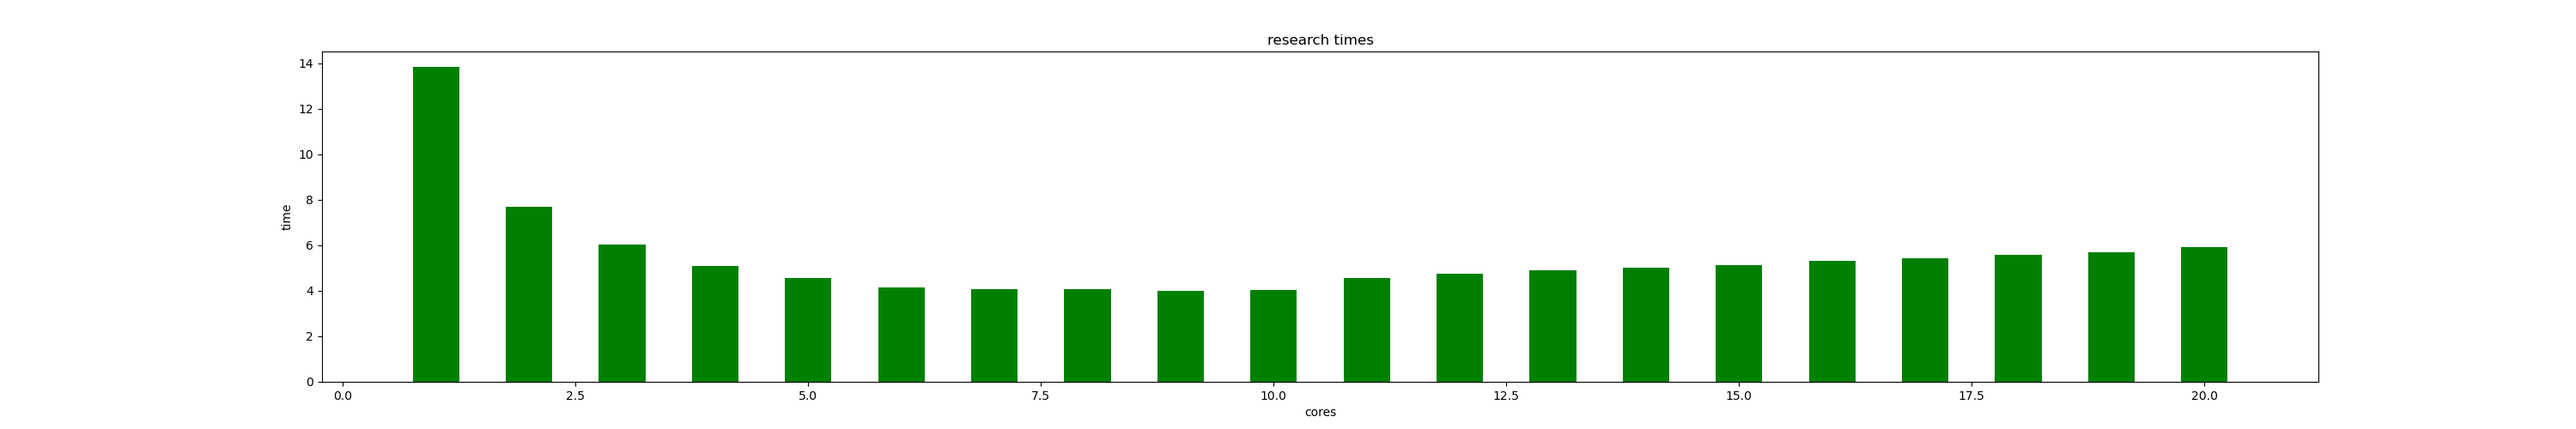
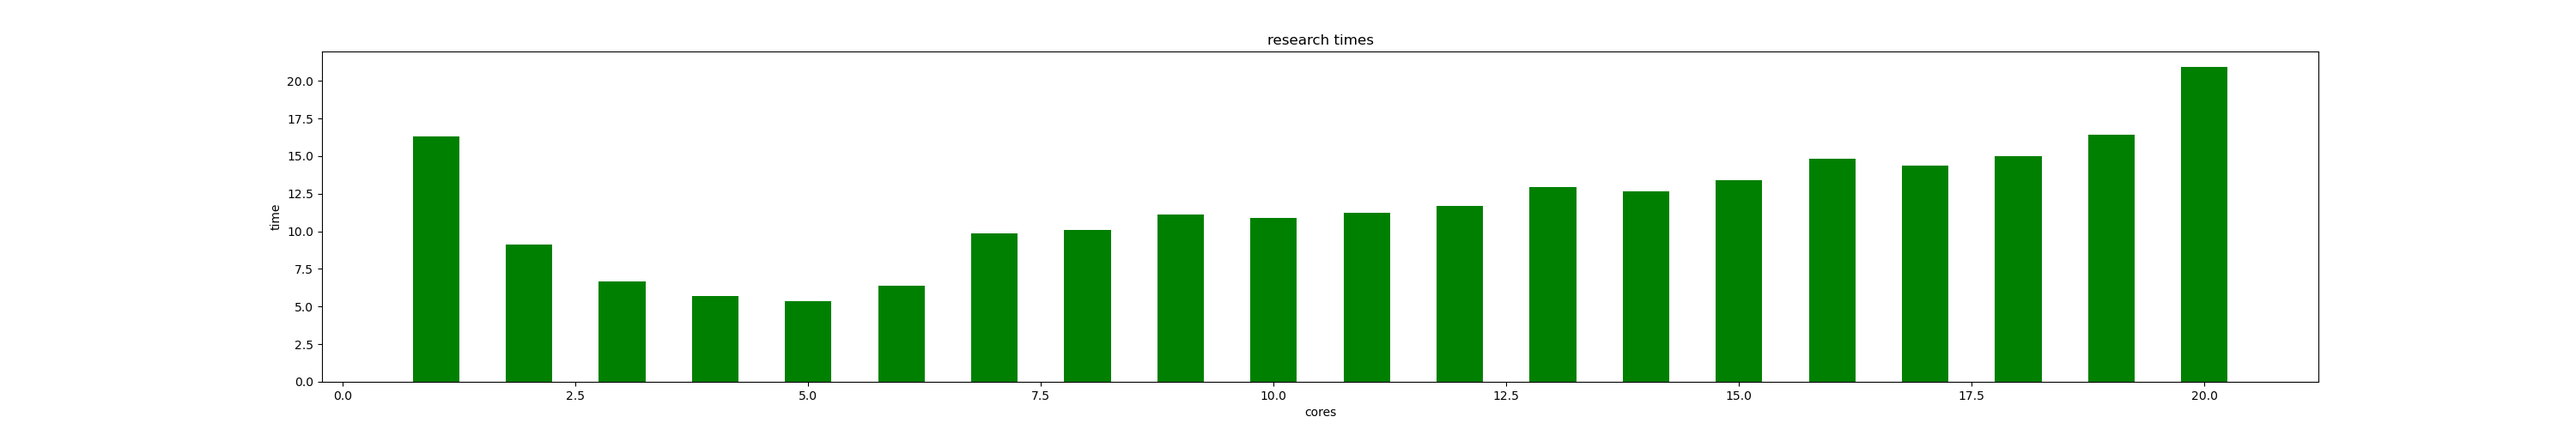
данные для поиска карты перенесны в json

diff --git a/functions.py b/functions.py
@@ -1,20 +1,29 @@
 import hashlib
 import logging
+import json
 from matplotlib import pyplot as plt
 import multiprocessing as mp
 import numpy as np
 import time
-from work_with_files import *
 
-# data = {
[1 lines of base64/hex data omitted]
-#     'last_num': '0254'
-# }
 
-# BIN = ['510126', '519778', '521178', '522828', '523701',
-#        '530331', '530827', '548673', '548674', '552175',
-#        '555928', '555933', '555949', '555957', '555921'
-#        ]
+def get_settings(settings_file: str) -> dict:
+    """функция получения словаря для дальнейшего взаимодействия с файлами
+
+    Args:
+        settings_file (str): путь к файлу
+
+    Returns:
+        dict: словарь с путями файлов
+    """
+    settings = None
+    try:
+        with open(settings_file) as json_file:
+            settings = json.load(json_file)
+        logging.info('Settings wes successfully loaded')
+    except IOError:
+        logging.warning(f'Error reading file {settings_file}')
+    return settings
 
 
 def check_hash(x: int, BIN: tuple, hash: str, last_num: str) -> tuple:
@@ -38,21 +47,18 @@ def check_hash(x: int, BIN: tuple, hash: str, last_num: str) -> tuple:
     return False
 
 
-def find_card_num(files: dict) -> str:
+def find_card_num(card_settings: dict) -> str:
     """функция поиска номера карты
     Args:
-        files (dict): набор путей фалов
+        card_settings (dict): набор путей фалов
 
     Returns:
         str: возвращет полный номер карты
     """
-    BIN = get_tuple(files["bins_file"])
-    hash  = get_text(files["hash_file"])
-    last_num = get_text(files["last_numbers_file"])
     
     arguments = []
     for i in range(0, 1000000):
-        arguments.append((i, BIN, hash, last_num))
+        arguments.append((i, card_settings["bins"], card_settings["hash"], card_settings["last_numbers"]))
         
     with mp.Pool(processes=5) as p:
         for result in p.starmap(check_hash, arguments):
@@ -63,23 +69,20 @@ def find_card_num(files: dict) -> str:
                 return (str(f'{result[0]}{result[1]}{result[2]}'))
 
 
-def time_research(c: int, files: dict) -> float:
+def time_research(c: int, card_settings: dict) -> float:
     """функция посчета поиска времени, необходимого, чтобы найти номер карты при заданном количестве запускаемых процессов
 
     Args:
         c (int): количество процессов
-        files (dict): набор путей фалов
+        card_settings (dict): набор путей фалов
 
     Returns:
         float: время поиска номера карты
     """
-    BIN = get_tuple(files["bins_file"])
-    hash  = get_text(files["hash_file"])
-    last_num = get_text(files["last_numbers_file"])
     
     arguments = []
     for i in range(0, 1000000):
-        arguments.append((i, BIN, hash, last_num))
+        arguments.append((i, card_settings["bins"], card_settings["hash"], card_settings["last_numbers"]))
     
     start = time.time()
     with mp.Pool(processes=c) as p:

diff --git a/window.py b/window.py
@@ -11,12 +11,11 @@ from PyQt5.QtWidgets import (
 from PyQt5.QtGui import (QIcon, QFont)
 from PyQt5.QtCore import QBasicTimer
 from PyQt5 import QtCore
-from work_with_files import *
 import os
 
 flag = 0
 
-way_settings = os.path.join('files', 'settings.json')
+way_settings = os.path.join('settings.json')
 
 class Window(QMainWindow):
     def __init__(self) -> None:
@@ -28,12 +27,11 @@ class Window(QMainWindow):
     def initUI(self) -> None:
         """функция работы окна
         """
-        self.files = get_settings(way_settings)
-        self.last_num = get_text(self.files["last_numbers_file"])
+        self.card_settings = f.get_settings(way_settings)
         
         self.info_message = QLabel(self)
         self.info_card_num = QLabel(
-            f'Информация о карте: ************{self.last_num}', self)
+            f'Информация о карте: ************{self.card_settings["last_numbers"]}', self)
         self.image_bar = QLabel(self)
         self.btn_create_bar = QPushButton('Построить график', self)
         self.btn_card_num = QPushButton('Найти номер карты', self)
@@ -116,13 +114,13 @@ class Window(QMainWindow):
         """функция поиска номера карты и вывода его на экран
         """
         self.print_info_message('Идет поиск')
-        self.info_card_num.setText(f'Информация о карте: {f.find_card_num(self.files)}')
+        self.info_card_num.setText(f'Информация о карте: {f.find_card_num(self.card_settings)}')
         self.info_message.hide()
 
     def alg_luna(self) -> None:
         """функция проверка номера карты на валидность с помощью алгоритма Луна
         """
-        card_num = f.find_card_num(self.files)
+        card_num = f.find_card_num(self.card_settings)
         self.info_card_num.setText(f'Информация о карте: {card_num}')
         if f.algorithm_luna(card_num):
             self.print_info_message('Номер карты валидный')
@@ -142,7 +140,7 @@ class Window(QMainWindow):
         """
         research_times = np.zeros(shape=0)
         for c in range(1, 21):
-            research_times = np.append(research_times, f.time_research(c, self.files))
+            research_times = np.append(research_times, f.time_research(c, self.card_settings))
             self.update_pbar()
 
         f.create_bar(research_times)

diff --git a/oib-laba-4.py b/oib-laba-4.py
@@ -6,14 +6,17 @@ from window import Window
 import json
 
 SETTINGS = {
-    'hash_file': 'files/hash.txt',
-    'bins_file': 'files/bins.txt',
-    'last_numbers_file': 'files/last_numbers.txt',
[1 lines of base64/hex data omitted]
+    'bins': ('510126', '519778', '521178', '522828', '523701',
+        '530331', '530827', '548673', '548674', '552175',
+        '555928', '555933', '555949', '555957', '555921'
+        ),
+    'last_numbers': '0254',
 }
 
 if __name__ == '__main__':
     logging.basicConfig(level=logging.INFO, filename='logs.log', filemode='w')
-    with open('files/settings.json', 'w') as fp:
+    with open('settings.json', 'w') as fp:
         json.dump(SETTINGS, fp)
 
     app = QApplication(sys.argv)
